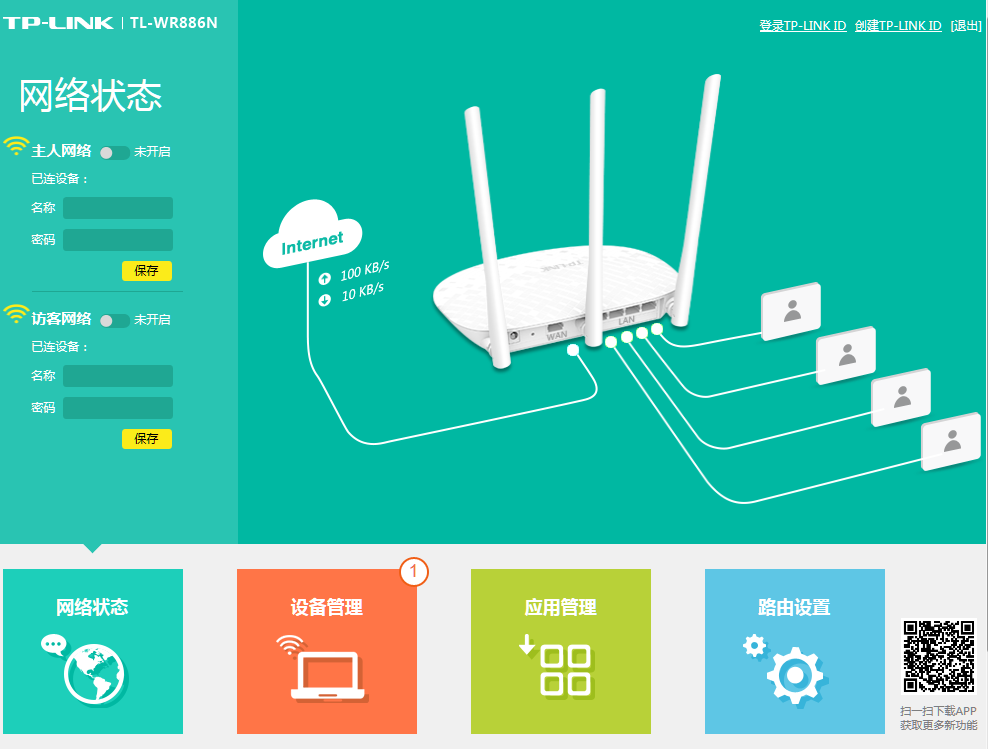
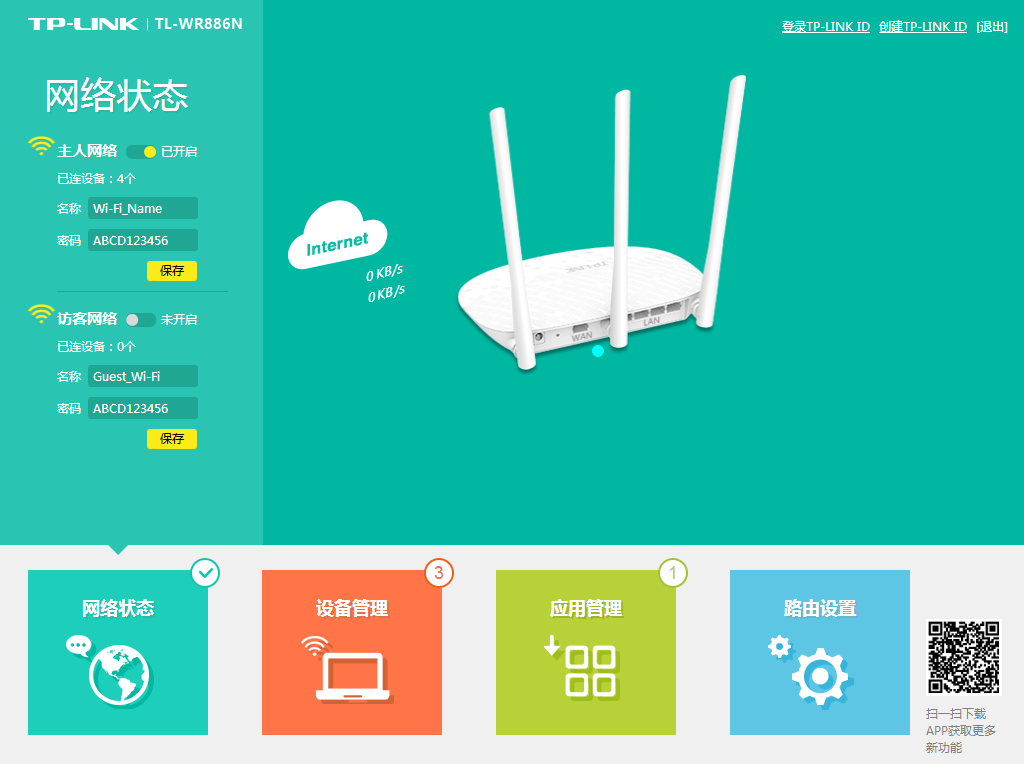
更新常见问题
更新常见问题

diff --git a/zh-cn/question/ConfigDevice-01wifi.md b/zh-cn/question/ConfigDevice-01wifi.md
@@ -1,10 +1,12 @@
 #####   登录路由器的管理界面
-在路由器壳体背面的标贴纸上，可以查看到管理页面或管理IP，这个地址就是用来登录路由器的地址。<br><div align="center">![loginurl](images/ConfigDevice-01wifi-001.jpg "loginurl")</div>
+在路由器壳体背面的标贴纸上，可以查看到管理页面或管理IP，这个地址就是用来登录路由器的地址。<br><div align="center">![loginurl](images/ConfigDevice-01wifi-001.jpg "loginurl")</div><br>
 
-打开浏览器在浏览器中输入路由器管理地址，输入路由器的管理密码（对于较老版本的路由器要求输入用户名和密码）后，点击登录/确认按钮，就可以登录到路由器的管理界面了。<br><div align="center">![loginsucc](/images/ConfigDevice-01wifi-002.png "loginsucc")</div>
+打开浏览器在浏览器中输入路由器管理地址，输入路由器的管理密码（对于较老版本的路由器要求输入用户名和密码）后，点击登录/确认按钮，就可以登录到路由器的管理界面了。<br><div align="center">![loginsucc](/images/ConfigDevice-01wifi-002.png "loginsucc")</div><br>
 
 提示：点击登录/确认按钮无反应、登录界面显示不完整或者重复提示输入密码，请更换浏览器尝试。
 
 #####   设置路由器的Wi-Fi
-1、Wi-fi名称不能有中文。</br>2、Wi-fi密码长度32位以内。</br>3、无线网络模式使用Bg模式。</br>4、使用2.4G频段的Wi-Fi：路由器关闭2.4G和5G的混频，使用2.4G 频段的wifi。</br>5、路由器是否开启了“防蹭网”功能，如开启请关闭。</br>
+点击“路由设置”进入界面后，再点击“无线设置”,来设置路由器的Wi-Fi。<br><div align="center">![wifisetting](/images/ConfigDevice-01wifi-003.png "wifisetting")</div><br>
+1、Wi-fi名称不能有中文。</br>2、无线模式使用Bg模式。</br>3、具有5G功能的路由器，要关闭2.4G和5G的混频，使用2.4G 频段的wifi。</br>4、有的路由器具有“防蹭网”功能，要关闭这个功能。</br>设置完毕后，点击“保存”按钮。</br></br>
+再点击“DHCP服务器”按钮进入界面，打开路由器的“DHCP”功能，点击“保存”按钮。</br><div align="center">![DHCPsetting](/images/ConfigDevice-01wifi-004.png "DHCPsetting")</div>
 
